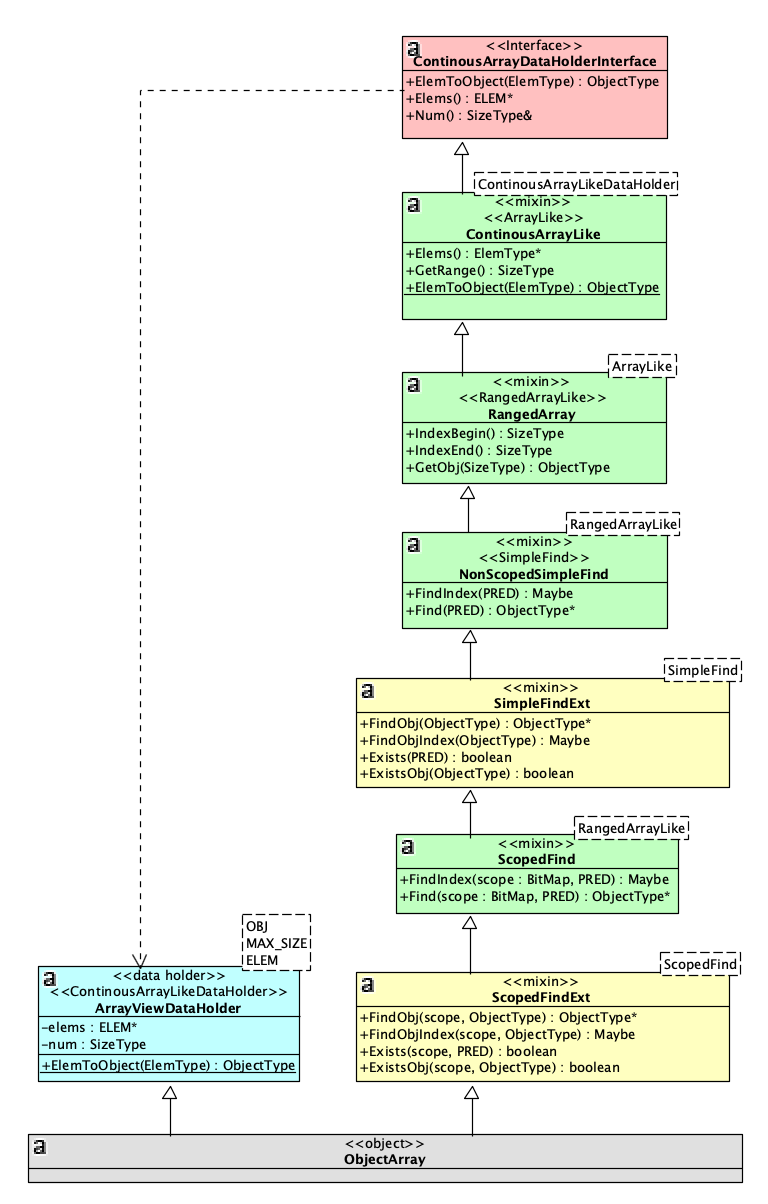
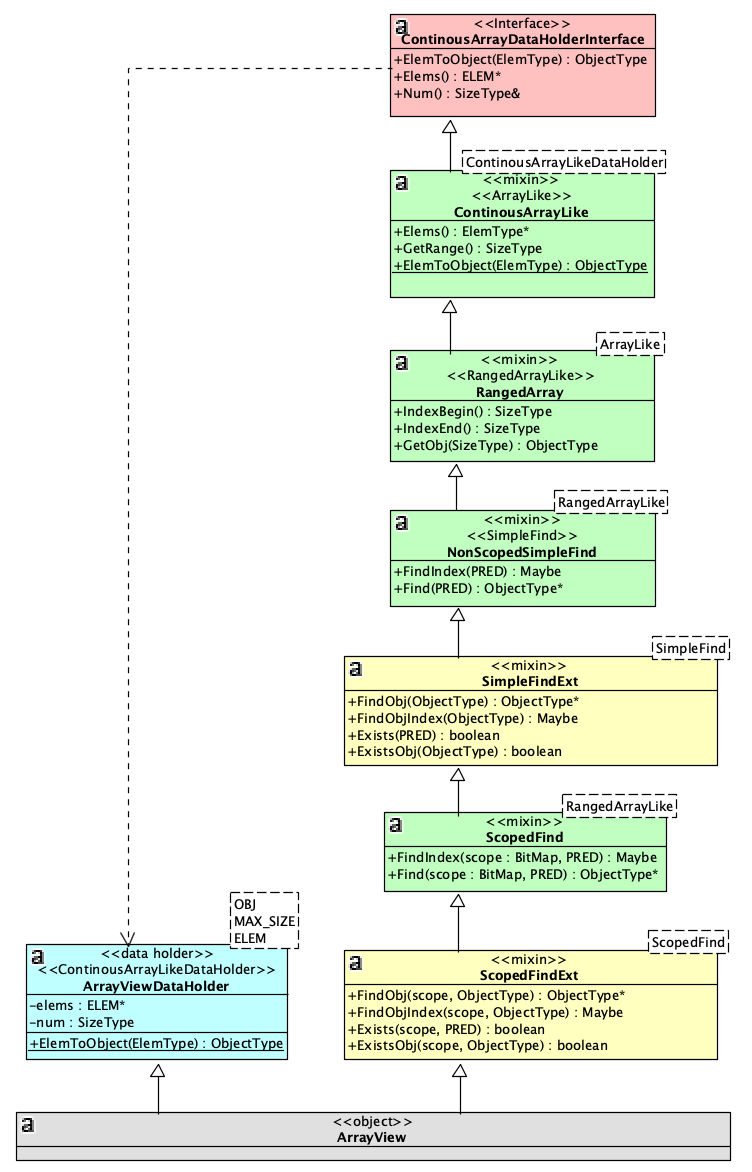
ArrayView Test

Changed region(s): [[0.0, 0.0, 0.9787, 1.0]]

diff --git a/doc/source/Mixin.rst b/doc/source/Mixin.rst
@@ -353,7 +353,23 @@ CRTP
        }
    };
 
-在组合了 ``ObjectArray`` 之后，我们发现 ``ArrayView`` 的组合方式与 ``ObjectArray`` 是一致的，除了 `DataHolder` 不同之外：
+在组合了 `ObjectArray` 之后，我们发现 `ArrayView` 的组合方式与 `ObjectArray` 是一致的，除了 `DataHolder` 不同之外：
 
 .. image:: images/array-view-composer.png
 
+而 `Slice` 需要的 `mixin` 要比 `ObjectArray` 少一些，因而它比较简单：
+
+.. image:: images/slice-composer.png
+
+`ScopedView` 是一个不同的物种，如下图：
+
+.. image:: images/scoped-view-composer.png
+
+正如我们之前所讨论的，它本身不再提供 `ScopedFind` 接口，但却会利用 `ScopedFind` 来
+实现 `SimpleFind` ，因而即便从具体实现上这依然是通过继承来实现，但在图中我们用组合关系来表达。
+
+而 `ScatteredArray` 则与 `ScopedView` 属于同一类：
+
+.. image:: images/scattered-array-composer.png
+
+实际上，每一种对象最终拼合的 `mixin` 要比这里举例的要多得多。但它们依据的方法是一致的。这里就不再赘述。
